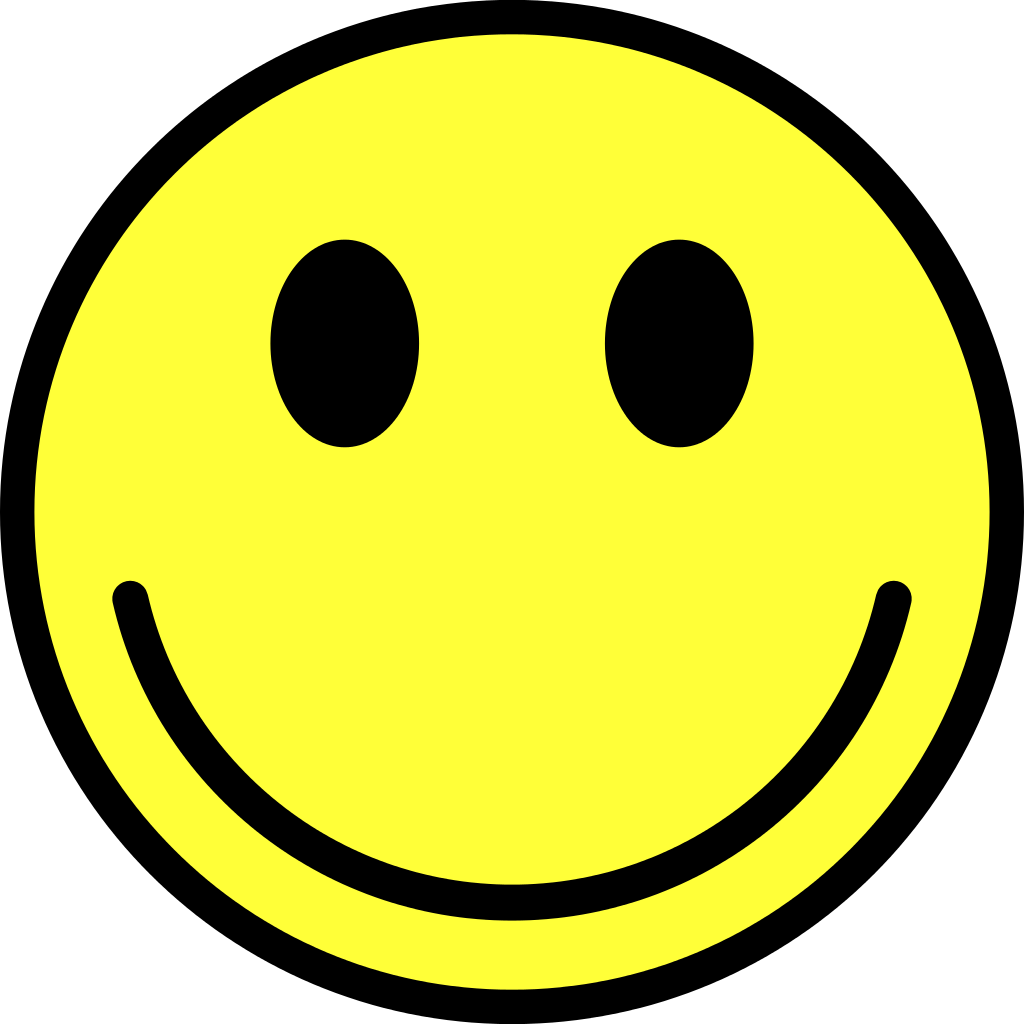
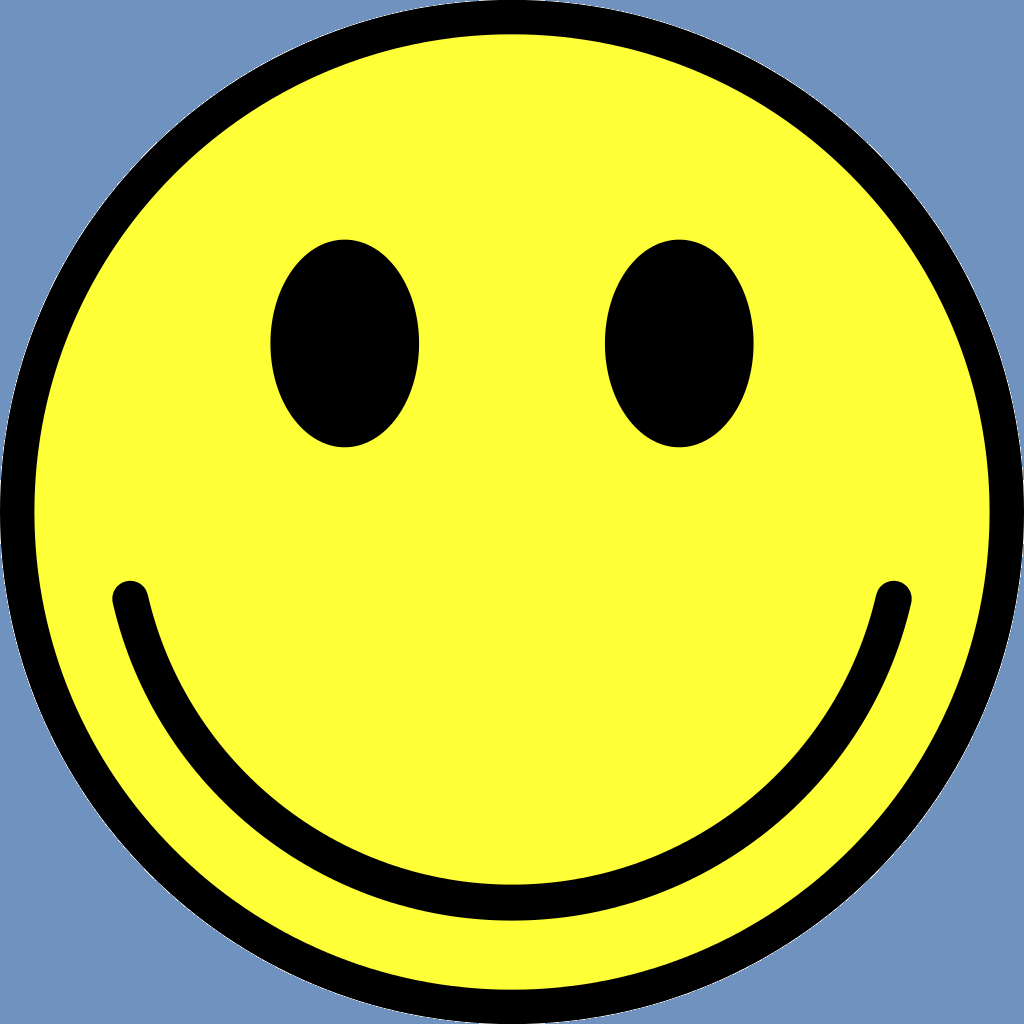
Rework img colors Add colors to game state and conclusion

diff --git a/lib/windows/templates.py b/lib/windows/templates.py
@@ -26,7 +26,11 @@ from lib.constant_values import (
 )
 
 from tkinter.scrolledtext import ScrolledText
-from lib.img import PATH_TO_POSITIVE_SMILEY, PATH_TO_SAD_SMILEY, PATH_TO_THUM_UP_SMILEY
+from lib.img import (
+    PATH_TO_POSITIVE_SMILEY,
+    PATH_TO_SAD_SMILEY_2,
+    PATH_TO_THUM_UP_SMILEY,
+)
 
 from PIL import ImageTk, Image
 
@@ -210,6 +214,7 @@ def create_photo_label(
     tk_relief: Union[TkRelief, str] = TkRelief.FLAT,
     text: Optional[str] = None,
     tk_width: Optional[int] = None,
+    label_style: str = StyleNamesCustomized.tlabel,
     **pack_options,
 ) -> ttk.Label:
     """Create a label that will be contained in an already existing parent frame
@@ -221,6 +226,7 @@ def create_photo_label(
     :param tk_relief: Tkinter constant for label relief. Default set to flat
     :param text: (optional) Label text
     :param tk_width: (optional) Width of the label widget
+    :param label_style: (optional) customized style of the label
     :param pack_options: Configuration options to pack the created label.
     Only pack options are expected.
 
@@ -229,20 +235,24 @@ def create_photo_label(
     :raise TypeError: Error raised when input type is different from expected type"""
 
     # check input
-    inputs_to_check = [(frame, ttk.Frame), (tk_photo, ImageTk.PhotoImage)]
+    inputs_to_check = [
+        (frame, ttk.Frame),
+        (tk_photo, ImageTk.PhotoImage),
+        (label_style, str),
+    ]
     check_input(inputs_to_check)
 
-    if not (isinstance(tk_anchor, TkAnchorNSticky) or isinstance(tk_anchor, str)):
+    if not isinstance(tk_anchor, (TkAnchorNSticky, str)):
         raise TypeError(
             f"Your Input type:{type(tk_anchor)}, is different from expected input type"
         )
 
-    if not (isinstance(tk_compound, TkSide) or isinstance(tk_compound, str)):
+    if not isinstance(tk_compound, (TkSide, str)):
         raise TypeError(
             f"Your Input type:{type(tk_compound)}, is different from expected input type"
         )
 
-    if not (isinstance(tk_relief, TkRelief) or isinstance(tk_relief, str)):
+    if not isinstance(tk_relief, (TkRelief, str)):
         raise TypeError(
             f"Your Input type:{type(tk_relief)}, is different from expected input type"
         )
@@ -260,6 +270,7 @@ def create_photo_label(
         relief=tk_relief,
         text=text,
         width=tk_width,
+        style=label_style,
     )
     try:
         tk_photo_label.pack(
@@ -284,7 +295,7 @@ def create_text(
     tk_height: int = 1,
     tk_state: Union[TkStates, str] = TkStates.DISABLED,
     fg_color: str = VlColors.dark,
-    bg_color: str = VlColors.dark_grey,
+    bg_color: str = VlColors.dark_grey_2,
     **pack_options,
 ) -> tk.Text:
     """Create a tkinter text that will be contained in an already existing parent frame
@@ -819,8 +830,8 @@ class GameStateTemplate(ttk.Frame):
         self,
         parent: ttk.Frame,
         func: Callable,
-        img_path: str = PATH_TO_THUM_UP_SMILEY,
-        resize_values: tuple = (400, 350),
+        img_path: str = PATH_TO_POSITIVE_SMILEY,
+        resize_values: tuple = (350, 300),
         type_resize: Image.Resampling = Image.Resampling.LANCZOS,
         text_to_display: str = success_text,
     ):
@@ -919,25 +930,29 @@ class GameStateTemplate(ttk.Frame):
             tk_compound=TkSide.TOP,
             text=self._text_to_display,
             pady=10,
+            label_style=StyleNamesCustomized.tlabel_calibri10,
         )
 
         self.submit_button = create_label(
             self.frames[1],
             text=verb_to_find_ans,
-            anchor=TkAnchorNSticky.W,
+            anchor=TkAnchorNSticky.NW,
+            label_style=StyleNamesCustomized.tlabel_arial_black10,
             side=TkSide.LEFT,
             padx=25,
+            pady=10,
             ipadx=5,
         )
 
         self.submit_button = create_button(
             self.frames[1],
-            text=submit_text,
+            text=next_text,
             anchor=TkAnchorNSticky.E,
             callable_function=self.callable_func,
             side=TkSide.RIGHT,
             padx=25,
             ipadx=5,
+            bg_color=VlColors.green_water,
         )
 
 
@@ -950,8 +965,8 @@ class GameFailedTemplate(GameStateTemplate):
         self,
         parent: ttk.Frame,
         func: Callable,
-        img_path: str = PATH_TO_SAD_SMILEY,
-        resize_values: tuple = (400, 350),
+        img_path: str = PATH_TO_SAD_SMILEY_2,
+        resize_values: tuple = (350, 300),
         type_resize: Image.Resampling = Image.Resampling.LANCZOS,
         text_to_display: str = failed_text,
     ):
@@ -981,8 +996,8 @@ class GameSuccessTemplate(GameStateTemplate):
         self,
         parent: ttk.Frame,
         func: Callable,
-        img_path: str = PATH_TO_POSITIVE_SMILEY,
-        resize_values: tuple = (400, 350),
+        img_path: str = PATH_TO_THUM_UP_SMILEY,
+        resize_values: tuple = (350, 300),
         type_resize: Image.Resampling = Image.Resampling.LANCZOS,
         text_to_display: str = success_text,
     ):
@@ -1057,12 +1072,18 @@ class GameConclusionTemplate(ttk.Frame):
         # create widgets
 
         self.label_end_game = create_label(
-            self.frames[0], text=end_text, tk_height=1, fill=tk.X, pady=5
+            self.frames[0],
+            text=end_text,
+            tk_height=1,
+            fill=tk.X,
+            pady=5,
+            label_style=StyleNamesCustomized.tlabel_arial_black18,
         )
         self.label_final_score = create_label(
             self.frames[1],
             text=score_text,
             tk_width=30,
+            label_style=StyleNamesCustomized.tlabel_arial_black10,
             tk_anchor=TkAnchorNSticky.E,
             side=TkSide.LEFT,
             padx=10,
@@ -1070,7 +1091,13 @@ class GameConclusionTemplate(ttk.Frame):
         )
 
         self.text_final_score = create_text(
-            self.frames[1], text=_score, tk_width=8, side=TkSide.LEFT, padx=20, ipadx=4
+            self.frames[1],
+            text=_score,
+            tk_width=8,
+            bg_color=VlColors.blue_green,
+            side=TkSide.LEFT,
+            padx=20,
+            ipadx=4,
         )
 
         self.label_grade = create_label(
@@ -1078,6 +1105,7 @@ class GameConclusionTemplate(ttk.Frame):
             text=grade_text,
             tk_width=30,
             tk_anchor=TkAnchorNSticky.E,
+            label_style=StyleNamesCustomized.tlabel_arial_black10,
             side=TkSide.LEFT,
             padx=10,
             ipadx=10,
@@ -1089,6 +1117,7 @@ class GameConclusionTemplate(ttk.Frame):
             tk_width=12,
             side=TkSide.LEFT,
             tk_anchor=TkAnchorNSticky.CENTER,
+            bg_color=VlColors.blue_green,
             padx=20,
             ipadx=5,
         )
@@ -1099,6 +1128,7 @@ class GameConclusionTemplate(ttk.Frame):
             fill=tk.BOTH,
             tk_height=3,
             tk_anchor=TkAnchorNSticky.W,
+            bg_color=VlColors.lavande,
             padx=10,
         )
 
@@ -1106,6 +1136,7 @@ class GameConclusionTemplate(ttk.Frame):
             self.frames[4],
             text=conclusion_text,
             tk_anchor=TkAnchorNSticky.W,
+            label_style=StyleNamesCustomized.tlabel_arial_black10,
             side=TkSide.LEFT,
             padx=25,
             ipadx=5,
@@ -1115,6 +1146,7 @@ class GameConclusionTemplate(ttk.Frame):
             text=close_app_text,
             side=TkSide.RIGHT,
             anchor=TkAnchorNSticky.W,
+            bg_color=VlColors.turquoise_2,
             padx=10,
             callable_function=self.callable_func,
         )
@@ -1145,7 +1177,7 @@ def configure_style(frame):
         StyleNamesCustomized.tlabel_calibri10,
         background=VlColors.blue_grey,
         foreground=VlColors.dark,
-        font=("Calibri", "12"),
+        font=("Calibri", "12", "bold"),
     )
     style.configure(
         StyleNamesCustomized.tlabel_arial_black10,
@@ -1165,7 +1197,13 @@ if __name__ == "__main__":
     from lib.constant_values import TkFilling
 
     # TO TEST PACKAGE
-
+    default_dict = {
+        TenseKey.INFINITIVE.value: "richie",
+        TenseKey.THIRD_FORM.value: "richie1",
+        TenseKey.PRETERITE.value: "richieee",
+        TenseKey.PERFECT.value: "richii",
+        TenseKey.LEVEL.value: "A2",
+    }
     root = tk.Tk()
     root.title("VerbenLernen")
     root.geometry("550x500")
@@ -1174,8 +1212,8 @@ if __name__ == "__main__":
     frame_root.pack(side=TkSide.TOP, fill=TkFilling.BOTH, expand=True)
     configure_style(frame_root)
 
-    pr = GamePresentationTemplate(
+    pr = GameConclusionTemplate(
         frame_root, change_frame
     )  # when using buttom callable should be call without parenthesis
-    pr.template_launcher()
+    pr.template_launcher(10)
     root.mainloop()

diff --git a/lib/img/__init__.py b/lib/img/__init__.py
@@ -4,5 +4,6 @@
 PATH_TO_IMG = "./lib/img"
 PATH_TO_POSITIVE_SMILEY = "./lib/img/positive_smiley.png"
 PATH_TO_SAD_SMILEY = "./lib/img/sad_smiley.jpg"
+PATH_TO_SAD_SMILEY_2 = "./lib/img/sad_smiley_2.png"
 PATH_TO_THUM_UP_SMILEY = "./lib/img/smiley_with_thumb_up.png"
 PATH_TO_TEAR_SMILEY = "./lib/img/smiley_with_tear.jpg"
